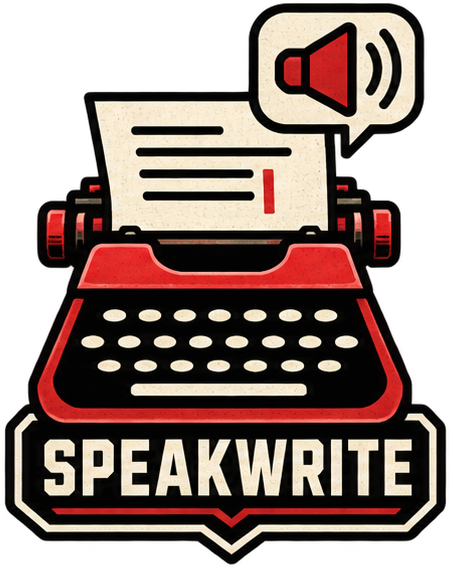
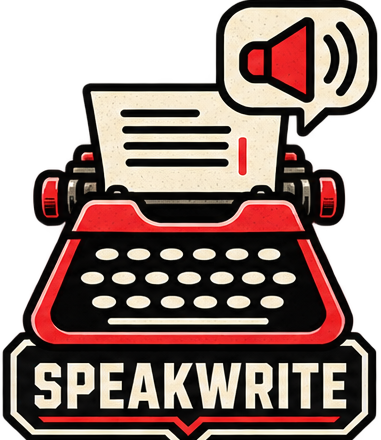
docs: the badge sheet gains the memory hole
The five component badges come from the reworked sheet: consistent
minitrue lettering and a badge for the memory hole, which now heads its
section like the others.

diff --git a/README.md b/README.md
@@ -121,7 +121,7 @@ discard a draft into the record's history instead. The clerk never
 posts without a recorded double-key approval. Design in
 [SPEAKWRITE.md](SPEAKWRITE.md).
 
-### the memory hole
+<p><img src="assets/memoryhole.png" alt="the memory hole" height="170"></p>
 
 The memory hole is the slit in the wall that carries unwanted records
 to the incinerators. No metaphor drift here; it does exactly that.
